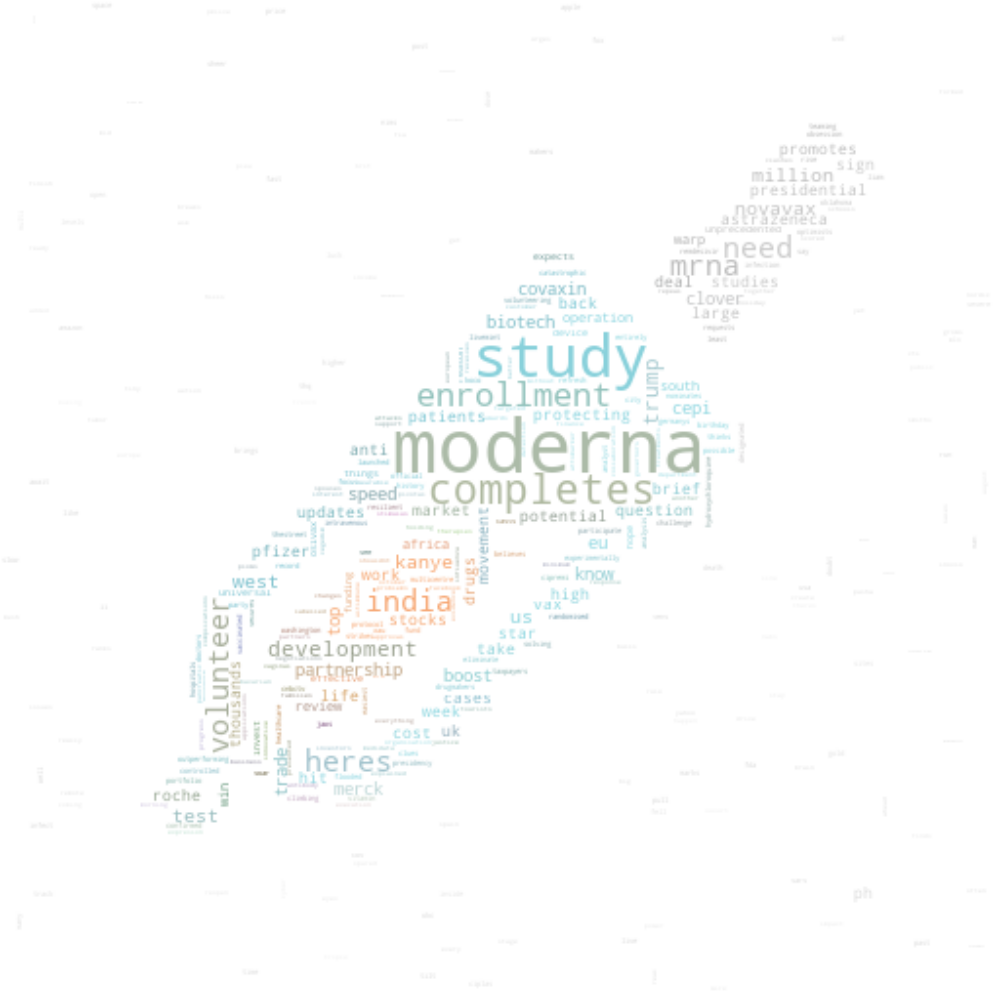
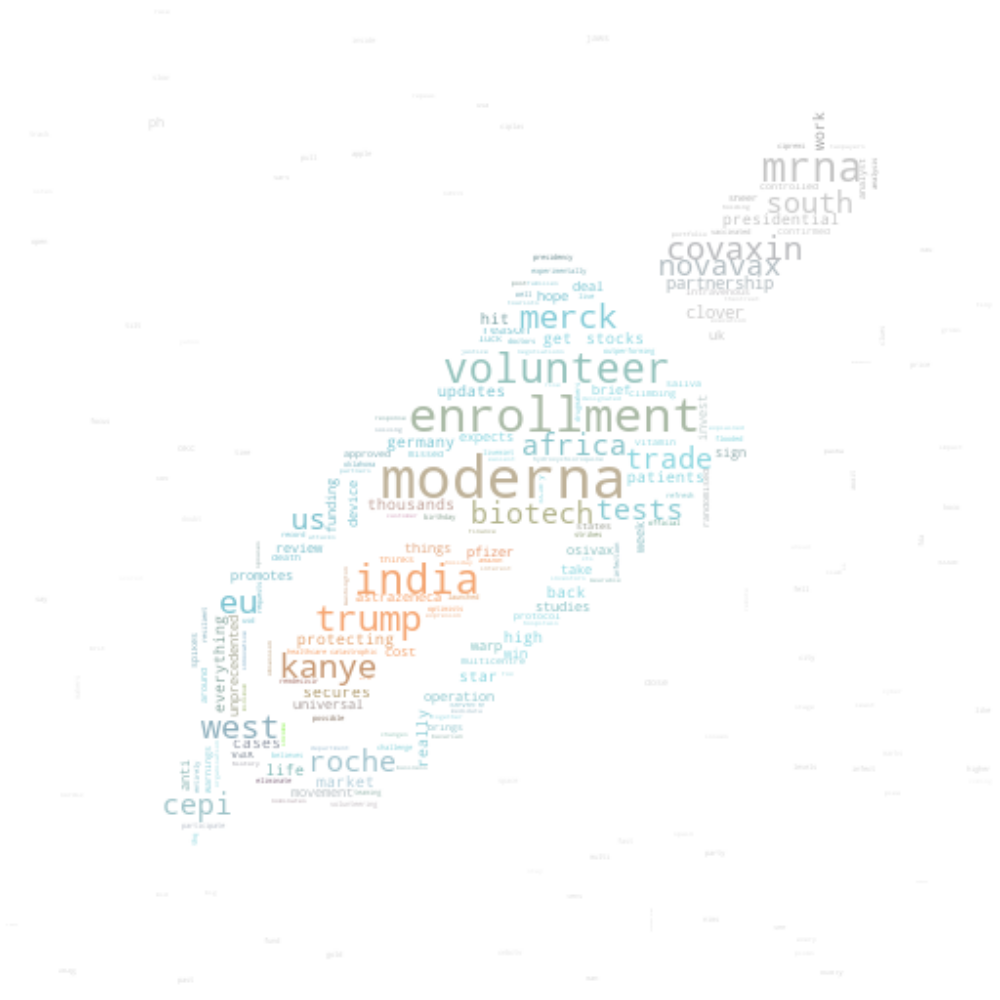
newupdate

Changed region(s): [[0.155, 0.248, 0.744, 0.837], [0.651, 0.124, 0.868, 0.31]]

diff --git a/templates/index.html b/templates/index.html
@@ -277,7 +277,7 @@
 
 
 
-            <div class="row" data-aos="fade-up">
+            <div class="card" data-aos="fade-up">
               <div class="col-sm-12">
                 <div class="card">
                   <div class="card-body">
@@ -303,11 +303,27 @@
                     <div class="card-body">
                       <div class="row">
                         <div class="col-sm-12">
-                          <h1 class="font-weight-600 mb-4">
-                            Vaccine Timeline Tracker
-                          </h1>
+                          <h2 class="font-weight-600 mb-4">
+                            Vaccine Trials Progress Tracker
+                          </h2>
                         </div>
                       </div>
+
+                      <br> 
+                      <br> 
+
+
+                      <img src="static/images/vaccdev.png" alt="Summary Unavailable"  height="auto" style="  max-width: 65%;display: block;
+                      margin-left: auto;
+                      margin-right: auto;">
+
+                      <div style="clear:both;"></div>
+                            <br>
+                          <p>    </p>
+                          <br>
+
+                          <p>    </p>
+
 
                       <div class="row">
                         <div class="col-sm-12">
@@ -329,9 +345,9 @@
                              
                             </div>
                             <div class="col-sm-8 grid-margin">
-                              <h2 class="font-weight-600 mb-2">
+                              <h3 class="font-weight-600 mb-2">
                                 {{ x['org'] }}
-                              </h2>
+                              </h3>
                              
                               <p class="fs-15">
                                 {{ x['text'] }}
@@ -340,6 +356,9 @@
                             {% endfor %}
 
                           </div>
+
+
+                          <br> 
 
 
                           <div class="row">
@@ -363,9 +382,9 @@
                              
                             </div>
                             <div class="col-sm-8 grid-margin">
-                              <h2 class="font-weight-600 mb-2">
+                              <h3 class="font-weight-600 mb-2">
                                 {{ x['org'] }}
-                              </h2>
+                              </h3>
                              
                               <p class="fs-15">
                                 {{ x['text'] }}
@@ -375,6 +394,7 @@
 
                           </div>
 
+                          <br> 
 
 
                           <div class="row">
@@ -396,9 +416,9 @@
                              
                             </div>
                             <div class="col-sm-8 grid-margin">
-                              <h2 class="font-weight-600 mb-2">
+                              <h3 class="font-weight-600 mb-2">
                                 {{ x['org'] }}
-                              </h2>
+                              </h3>
                              
                               <p class="fs-15">
                                 {{ x['text'] }}
@@ -408,6 +428,7 @@
 
                           </div>
 
+                          <br> 
 
 
                           <div class="row">
@@ -418,6 +439,7 @@
                             </div>
                           </div>
 
+                          <br> 
 
 
                           <div class="row">
@@ -427,9 +449,9 @@
                              
                             </div>
                             <div class="col-sm-8 grid-margin">
-                              <h2 class="font-weight-600 mb-2">
+                              <h3 class="font-weight-600 mb-2">
                                 {{ x['org'] }}
-                              </h2>
+                              </h3>
                              
                               <p class="fs-15">
                                 {{ x['text'] }}
@@ -443,6 +465,8 @@
                         </div>
                        
                       </div>
+                      <p style="text-align:right;"> Vaccine Tracker data pulled in from The New York Times' Coronavirus Vaccine Tracker
+                      </p>
                     </div>
                   </div>
                 </div>

diff --git a/app.py b/app.py
@@ -138,7 +138,7 @@ newsdf['clean_titles']=newsdf.title.apply(preprocessor)
 stop_words = nltk.corpus.stopwords.words('english')
 
 
-newStopWords = ["university","times","reuters","inc","international","organization","health","house","world","buy","pharma",'covid','sciences','hindustan','guide','institute','state','bbc','program','pharmaceuticals','innovations','cnn','grants','epidemic','respiratory','paycheck','protection','vaccine',"covid","coronavirus","today","trial","vaccines","could","trials","next","human","cancer","race","people","month","early","want","risk","science","pandemic","testing","second","says","start","phase","made","make","clinical","virus","update","update","final","treatment","research","nearly","begin","help","look","provides","kids","supply","stock","expert","doses","announces","plan","drug","new","hundreds","ceo","end","expected","millions","year","available","data","results","protect","may","months","scientists","researchers","billion","day", "report"]
+newStopWords = ["university","times","reuters","inc","international","organization","health","house","world","buy","pharma",'covid','sciences','hindustan','guide','institute','state','bbc','program','pharmaceuticals','innovations','cnn','grants','epidemic','respiratory','paycheck','protection','vaccine',"covid","coronavirus","today","trial","vaccines","could","trials","next","human","cancer","race","people","month","early","want","risk","science","pandemic","testing","second","says","start","phase","made","make","clinical","virus","update","update","final","treatment","research","nearly","begin","help","look","provides","kids","supply","stock","expert","doses","announces","plan","drug","new","hundreds","ceo","end","expected","millions","year","available","data","results","protect","may","months","scientists","researchers","billion","day", "report","study","need","development","complete","completes","heres","million","test","drugs","drug","potential","speed","boost","top","know","large","question"]
 _mask = np.array(Image.open("static/images/wordcloud.jpg").convert('RGB'))
 _mask[_mask==0]=255
 stop_words.extend(newStopWords)
